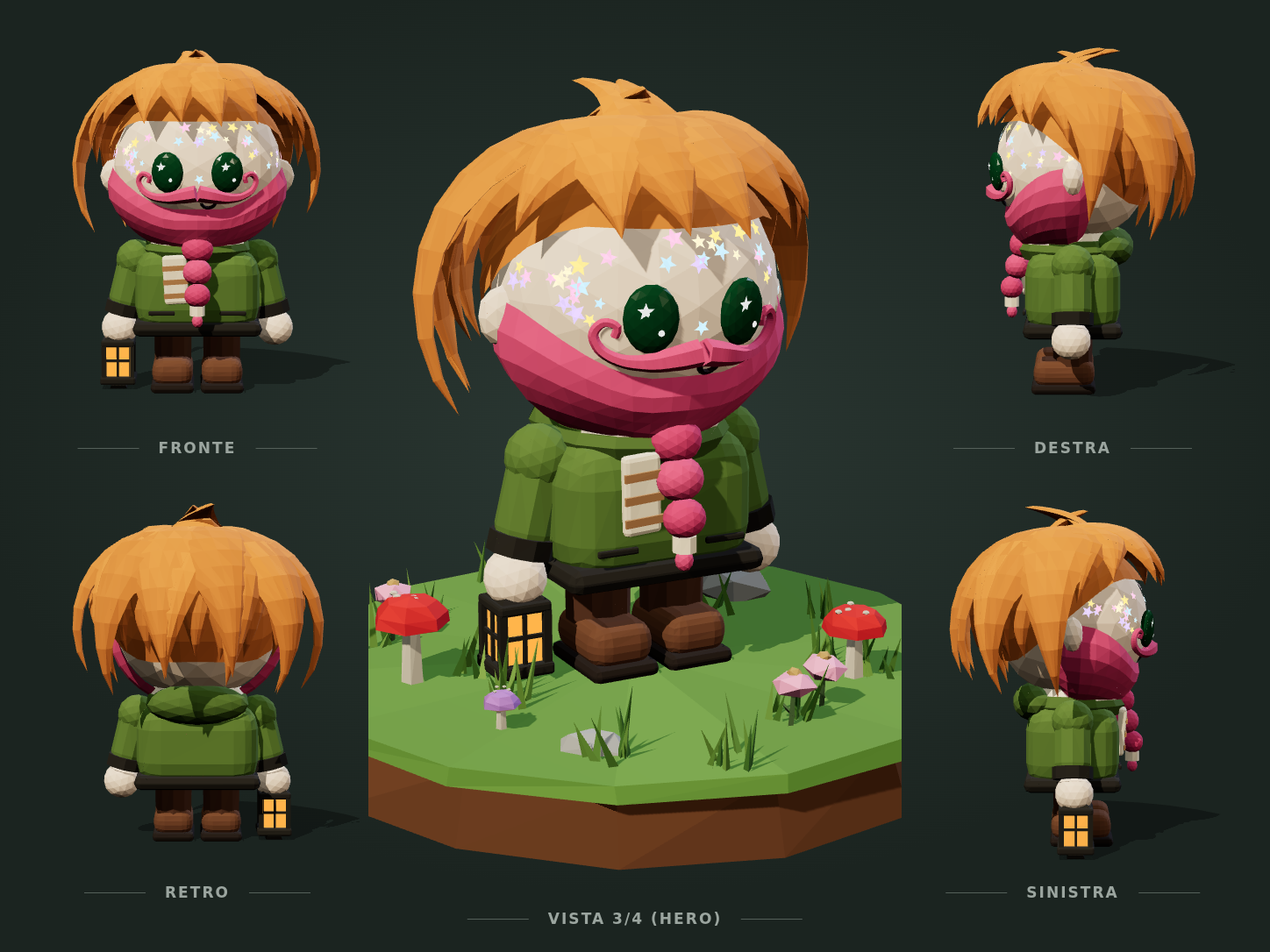
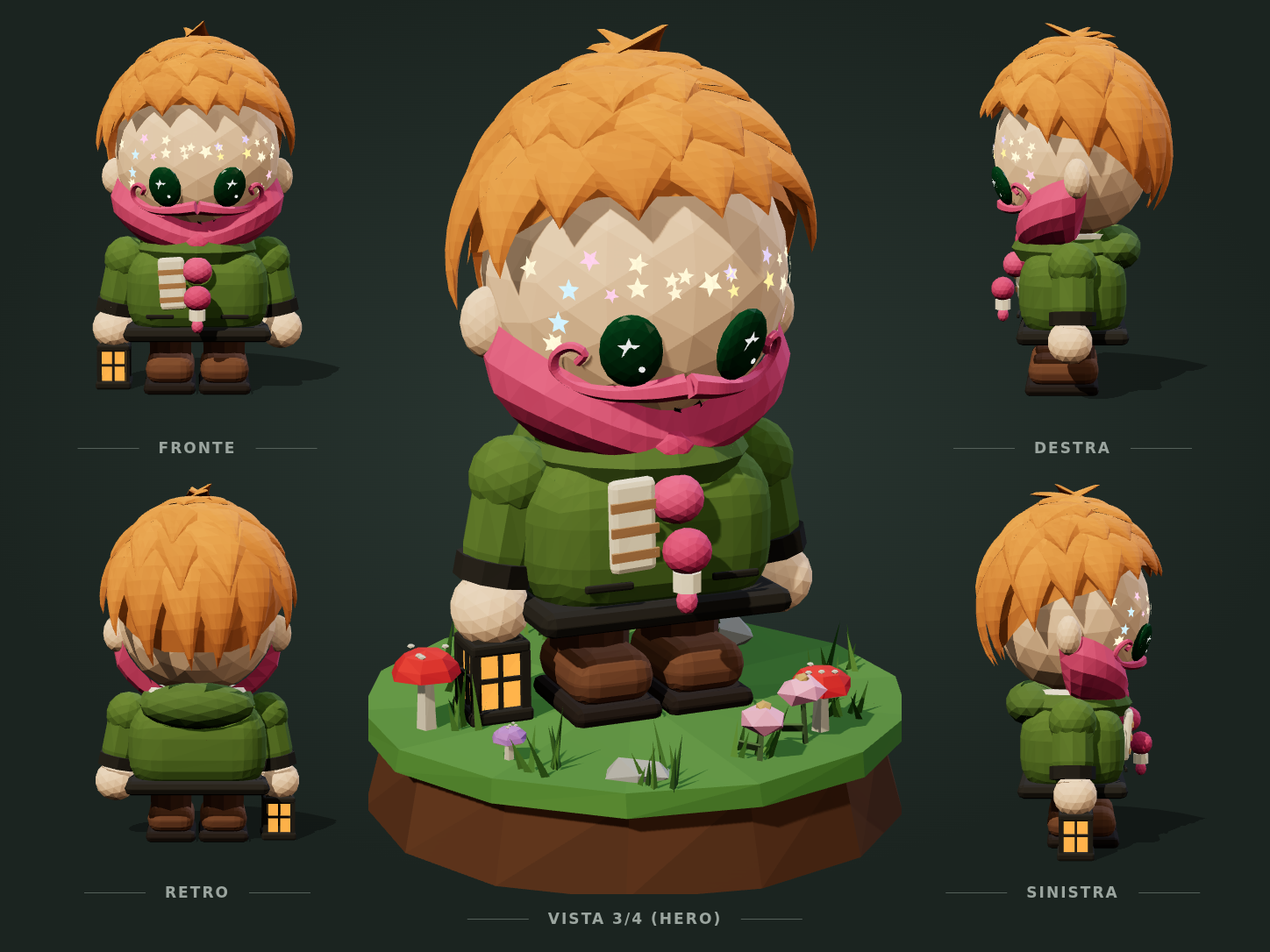
Style prototype v2, second pass: proportions and features taken from the concept
Head and hair now ~60% of the height with a short chubby body sitting under
the head; eyes, moustache and mouth in the lower half of the face; hair as a
round mass of short pointed overlapping locks; beard as a band along the jaw
from ear to ear; wider handlebar, bigger sparser stars, big round ears, big
hands, chunky boots; smaller darker diorama. Audit updated.

Claude-Session: https://claude.ai/code/session_01U6u5RojYrwYjZd8sSRU7em

diff --git a/Prototype-3d/src/proto/custodeV2.ts b/Prototype-3d/src/proto/custodeV2.ts
@@ -13,11 +13,11 @@ import { flower, grassTuft } from '../render/lowpoly/details.ts';
 import { mushroom } from '../render/lowpoly/nature.ts';
 
 // ── Palette del concept ─────────────────────────────────────────────────
-const SKIN = '#f3dcc4';
+const SKIN = '#f6cba6';
 const HAIR = '#d98238';
 const BEARD = '#d4567c';
 const EYE = '#1f4d2e';
-const JACKET = '#5d7836';
+const JACKET = '#58722f';
 const DARK = '#2c2a25';
 const PANTS = '#5a3c2a';
 const BOOT = '#6c4830';
@@ -36,8 +36,9 @@ function prng(seed: number) {
 const O: LPOpts = { jitter: 0, vary: 0.04, ao: 0 };
 
 // ── Testa: ellissoide (tonda, appena più larga che alta) ────────────────
-const C = new THREE.Vector3(0, 0.745, 0);
-const R = new THREE.Vector3(0.28, 0.258, 0.258);
+// testa enorme (≈60% dell'altezza con i capelli), appena più alta che larga
+const C = new THREE.Vector3(0, 0.79, 0);
+const R = new THREE.Vector3(0.275, 0.29, 0.265);
 
 /** Punto e normale della testa nella direzione (θ da +z verso +x, φ elevazione). */
 function headAt(th: number, ph: number) {
@@ -97,11 +98,11 @@ function sheet(lp: LP, nu: number, nv: number, at: (u: number, v: number) => [nu
  * segue la testa dalla radice alla punta, si allarga e poi si stringe a punta,
  * e si stacca dalla testa verso la punta (volume che esce dalla sagoma).
  */
-function lock(lp: LP, o: { th0: number; th1: number; ph0: number; ph1: number; w: number; t?: number; lift?: number; bulge?: number; col: string }) {
+function lock(lp: LP, o: { th0: number; th1: number; ph0: number; ph1: number; w: number; t?: number; lift?: number; bulge?: number; base?: number; col: string }) {
   const NS = 10, NW = 6;
   const center = (s: number) => {
     const { p, n } = headAt(lerp(o.th0, o.th1, s) * DEG, lerp(o.ph0, o.ph1, s) * DEG);
-    const off = 0.022 + (o.bulge ?? 0.04) * Math.sin(Math.PI * s) + (o.lift ?? 0.06) * s * s;
+    const off = (o.base ?? 0.022) + (o.bulge ?? 0.04) * Math.sin(Math.PI * s) + (o.lift ?? 0.06) * s * s;
     return { c: p.addScaledVector(n, off), n };
   };
   const outer: THREE.Vector3[][] = [], inner: THREE.Vector3[][] = [];
@@ -170,60 +171,65 @@ function star(size: number, inner = 0.45): THREE.BufferGeometry {
 const rbox = (w: number, h: number, d: number, r: number, seg = 2) => new RoundedBoxGeometry(w, h, d, seg, r);
 
 // ── Parti ───────────────────────────────────────────────────────────────
+// Misure ricavate dalla vista frontale del concept: occhi, baffi e bocca nella
+// metà bassa della testa (fronte grande), barba come fascia lungo la mandibola.
 
-/** Linea dell'attaccatura dei capelli (φ in gradi) attorno alla testa. */
-const hairline = (th: number) => lerp(30, -26, smooth(0.25 * Math.PI, 0.8 * Math.PI, Math.abs(Math.atan2(Math.sin(th), Math.cos(th)))));
-/** Bordo superiore della barba (φ in gradi) in funzione di θ. */
-const beardTop = (thDeg: number) => lerp(-31, -1, smooth(18, 86, Math.abs(thDeg)));
+const EYE_Y = 0.682, EYE_X = 0.1;
+const absDeg = (th: number) => Math.abs(Math.atan2(Math.sin(th), Math.cos(th))) / DEG; // 0 davanti, 180 dietro
+/** Dove arrivano le punte dei capelli (φ in gradi): poco sopra gli occhi davanti, sopra le orecchie ai lati, alla nuca dietro. */
+const hairTip = (th: number) => { const a = absDeg(th); return a < 90 ? lerp(24, 2, smooth(30, 90, a)) : lerp(2, -34, smooth(90, 160, a)); };
+/** Bordo superiore della barba (φ in gradi): sotto la bocca davanti, sale lungo la mandibola fino all'orecchio. */
+const beardTop = (thDeg: number) => lerp(-53, -16, smooth(0, 96, Math.abs(thDeg)));
 
 function head(lp: LP) {
-  lp.add(new THREE.IcosahedronGeometry(1, 3).scale(R.x, R.y, R.z).translate(C.x, C.y, C.z), SKIN, { ...O, ao: 0.06 });
-  for (const s of [-1, 1]) lp.blob(s * (R.x - 0.005), C.y - 0.035, 0, 0.05, 0.058, 0.035, SKIN, { ...O, detail: 1 } as LPOpts); // orecchie
+  lp.add(new THREE.IcosahedronGeometry(1, 3).scale(R.x, R.y, R.z).translate(C.x, C.y, C.z), SKIN, { ...O, ao: 0.05 });
+  for (const s of [-1, 1]) lp.blob(s * (R.x - 0.004), 0.708, -0.012, 0.05, 0.064, 0.04, SKIN, { ...O, detail: 2 } as LPOpts); // orecchie grandi e tonde
   // bocca: sorrisetto un po' di lato, sotto i baffi
-  onSkin(lp, headFront(0.035, 0.636), 0.002, 0.15, (q) => q.add(new THREE.TorusGeometry(0.022, 0.0065, 3, 8, Math.PI).rotateZ(Math.PI), '#2a1a1c', O));
+  onSkin(lp, headFront(0.03, 0.575), 0.002, 0.15, (q) => q.add(new THREE.TorusGeometry(0.024, 0.007, 3, 8, Math.PI).rotateZ(Math.PI), '#2a1a1c', O));
 }
 
-/** Brillantini a stella sparsi sulla pelle (non su occhi, barba, baffi, capelli). */
+/** Brillantini a stella, grandi e radi, su tutto il viso (non su occhi, baffi, barba, capelli). */
 function glitter(lp: LP) {
-  const rnd = prng(5);
+  const rnd = prng(9);
   let placed = 0;
-  for (let tries = 0; placed < 40 && tries < 2000; tries++) {
-    const thD = (rnd() * 2 - 1) * 100, phD = -24 + rnd() * 62;
-    if (phD < beardTop(thD) + 5 || phD > hairline(thD * DEG) - 2) continue;
+  for (let tries = 0; placed < 26 && tries < 4000; tries++) {
+    const thD = (rnd() * 2 - 1) * 88, phD = -45 + rnd() * 55;
+    if (phD < beardTop(thD) + 6 || phD > hairTip(thD * DEG) - 4) continue;
     const at = headAt(thD * DEG, phD * DEG);
     const { p } = at;
-    if (p.z > 0.1 && Math.abs(Math.abs(p.x) - 0.092) < 0.078 && Math.abs(p.y - 0.727) < 0.09) continue; // occhi
-    if (p.z > 0.1 && Math.abs(p.x) < 0.2 && p.y < 0.69) continue; // baffi
-    onSkin(lp, at, 0.002, rnd() * Math.PI, (q) => q.add(star(0.011 + rnd() * 0.011), GLITTER[placed % GLITTER.length], { ...O, bucket: 'glow' }));
+    if (p.z > 0.08 && Math.abs(Math.abs(p.x) - EYE_X) < 0.078 && Math.abs(p.y - EYE_Y) < 0.09) continue; // occhi
+    if (p.z > 0.08 && Math.abs(p.x) < 0.23 && p.y > 0.56 && p.y < 0.67) continue; // baffi e bocca
+    onSkin(lp, at, 0.002, rnd() * Math.PI, (q) => q.add(star(0.013 + rnd() * 0.011), GLITTER[placed % 3 === 0 ? 1 + (placed % 4) : 0], { ...O, bucket: 'glow' }));
     placed++;
   }
 }
 
 function beard(lp: LP) {
-  sheet(lp, 22, 8,
-    (u, v) => [u * 104 * DEG, lerp(-76, beardTop(u * 104), v) * DEG],
+  // fascia lungo la mandibola, da un orecchio all'altro, più piena sotto il mento
+  sheet(lp, 24, 7,
+    (u, v) => [u * 100 * DEG, lerp(-82, beardTop(u * 100), v) * DEG],
     (u, v) => {
-      const edge = smooth(0, 0.14, 1 - Math.abs(u)) * smooth(0, 0.18, v) * smooth(0, 0.2, 1 - v);
-      const chin = (1 - Math.abs(u)) ** 2 * Math.exp(-(((v - 0.35) / 0.25) ** 2));
-      return edge * (0.034 + 0.026 * chin);
+      const edge = smooth(0, 0.12, 1 - Math.abs(u)) * smooth(0, 0.16, v) * smooth(0, 0.22, 1 - v);
+      const chin = (1 - Math.abs(u)) ** 2 * Math.exp(-(((v - 0.35) / 0.3) ** 2));
+      return edge * (0.06 + 0.035 * chin);
     }, BEARD, { vary: 0.05 });
   // treccia: tre perle che scendono sul petto, fermaglio color panna e punta
-  const { p, n } = headAt(0, -58 * DEG);
-  const top = p.addScaledVector(n, 0.055);
-  const end = new THREE.Vector3(0, 0.335, 0.205);
-  [0.052, 0.047, 0.042].forEach((r, i) => {
+  const { p, n } = headAt(0, -64 * DEG);
+  const top = p.addScaledVector(n, 0.045);
+  const end = new THREE.Vector3(0, 0.33, 0.235);
+  [0.052, 0.048, 0.044].forEach((r, i) => {
     const q = top.clone().lerp(end, i / 2);
     lp.blob(q.x, q.y, q.z, r, r * 0.92, r * 0.9, i % 2 ? BEARD : '#c94b71', { ...O, detail: 2 } as LPOpts);
   });
-  lp.cyl(end.x, end.y - 0.065, end.z, 0.024, 0.024, 0.032, 8, SCARF, O);
-  lp.blob(end.x, end.y - 0.082, end.z, 0.018, 0.022, 0.018, BEARD, { ...O, detail: 1 } as LPOpts);
+  lp.cyl(end.x, end.y - 0.07, end.z, 0.026, 0.026, 0.034, 8, SCARF, O);
+  lp.blob(end.x, end.y - 0.088, end.z, 0.019, 0.024, 0.019, BEARD, { ...O, detail: 1 } as LPOpts);
 }
 
 function moustache(lp: LP) {
-  // dal centro sotto il naso verso l'esterno, poi un ricciolo all'insù accanto all'occhio
+  // grosso manubrio: dal centro sotto il naso fin oltre gli occhi, poi un ricciolo all'insù
   const path: Array<[number, number, number]> = [
-    [0.004, 0.668, 0.026], [0.045, 0.66, 0.024], [0.09, 0.652, 0.02], [0.135, 0.655, 0.015], [0.168, 0.674, 0.012],
-    [0.18, 0.702, 0.0105], [0.166, 0.722, 0.0095], [0.146, 0.714, 0.0088], [0.149, 0.696, 0.008],
+    [0.004, 0.626, 0.022], [0.06, 0.617, 0.02], [0.12, 0.612, 0.016], [0.168, 0.622, 0.013], [0.196, 0.646, 0.011],
+    [0.2, 0.674, 0.0095], [0.182, 0.689, 0.0088], [0.165, 0.677, 0.008], [0.172, 0.660, 0.0075],
   ];
   for (const s of [-1, 1]) {
     const pts = path.map(([x, y, r]) => { const at = headFront(s * x, y); return at.p.addScaledVector(at.n, r * 0.85); });
@@ -231,76 +237,76 @@ function moustache(lp: LP) {
   }
 }
 
+/**
+ * Capelli: massa tonda e compatta fatta di tante ciocche corte a punta,
+ * sovrapposte a scaglie (ogni fila copre la radice di quella sotto), più
+ * qualche ciuffetto dritto in cima.
+ */
 function hair(lp: LP) {
   const rnd = prng(31);
   const tone = (k: number) => `#${new THREE.Color(HAIR).offsetHSL(0, 0, k).getHexString()}`;
-  // calotta sotto le ciocche (più scura): niente pelle tra una ciocca e l'altra
-  sheet(lp, 30, 8, (u, v) => { const th = Math.PI + u * Math.PI; return [th, lerp(hairline(th), 89, v) * DEG]; }, () => 0.018, tone(-0.06));
-  // strato interno sulla nuca (riempie tra le ciocche esterne)
-  for (let k = 0; k < 9; k++) {
-    const th0 = 116 + k * 16;
-    lock(lp, { th0, th1: th0 + (rnd() - 0.5) * 8, ph0: 64, ph1: -16 - rnd() * 6, w: 0.17, t: 0.04, lift: 0.04, col: tone(-0.06) });
-  }
-  // ciocche esterne della nuca: grosse, a punta, che si aprono verso il basso
-  for (let k = 0; k < 10; k++) {
-    const th0 = 106 + k * (148 / 9);
-    lock(lp, { th0, th1: th0 + (k % 2 ? 9 : -9), ph0: 76, ph1: -22 - rnd() * 12, w: 0.2, lift: 0.1 + rnd() * 0.04, bulge: 0.05, col: tone([0, 0.045, -0.035][k % 3]) });
-  }
-  // lati, sopra le orecchie
-  for (const s of [-1, 1]) [[58, 22], [78, 14], [96, 2]].forEach(([th, ph1], k) => {
-    lock(lp, { th0: s * th, th1: s * (th + 10), ph0: 74, ph1: ph1 - rnd() * 5, w: 0.17, lift: 0.06, col: tone([0.02, -0.02, 0.01][k]) });
+  sheet(lp, 30, 8, (u, v) => { const th = Math.PI + u * Math.PI; return [th, lerp(hairTip(th) + 6, 89, v) * DEG]; }, () => 0.02, tone(-0.07));
+  const back = (th: number) => smooth(80, 160, absDeg(th * DEG));
+  const rows = [
+    { n: 15, root: 50, tip: (th: number) => hairTip(th * DEG), base: 0.022, w: 0.15, t: 0.036 },
+    { n: 12, root: 66, tip: (th: number) => lerp(40, 8, back(th)), base: 0.032, w: 0.16, t: 0.036 },
+    { n: 9, root: 80, tip: (th: number) => lerp(56, 36, back(th)), base: 0.042, w: 0.17, t: 0.036 },
+    { n: 6, root: 89, tip: () => 70, base: 0.05, w: 0.16, t: 0.034 },
+  ];
+  rows.forEach((row, r) => {
+    for (let k = 0; k < row.n; k++) {
+      const th0 = (k + (r % 2) * 0.5) * (360 / row.n) + (rnd() - 0.5) * 8;
+      lock(lp, {
+        th0, th1: th0 + 6 + (rnd() - 0.5) * 10, ph0: row.root, ph1: row.tip(th0) - rnd() * 5,
+        w: row.w * (0.9 + rnd() * 0.2), t: row.t, base: row.base, lift: 0.02 + rnd() * 0.02, bulge: 0.012,
+        col: tone([0.02, -0.02, 0.035, 0, -0.035][(k + r) % 5]),
+      });
+    }
   });
-  // frangia spettinata a ciocche grosse, appena portata di lato
-  for (let k = 0; k < 5; k++) {
-    const th0 = -46 + k * 23;
-    lock(lp, { th0, th1: th0 + 14, ph0: 84, ph1: 20 + rnd() * 10, w: 0.21, t: 0.045, lift: 0.06, bulge: 0.045, col: tone([0.04, -0.01, 0.025, -0.03, 0.02][k]) });
-  }
-  // ciuffi ribelli in cima
-  [[-14, 106, 0.12], [14, 114, 0.14], [168, 98, 0.1]].forEach(([th, ph1, lift], k) => {
-    lock(lp, { th0: th, th1: th + 6, ph0: 74, ph1, w: 0.13, t: 0.04, lift, bulge: 0.03, col: tone(k % 2 ? 0.04 : 0.01) });
+  // ciuffetti dritti in cima
+  [[-20, 104], [10, 110], [35, 100], [190, 102]].forEach(([th, ph1], k) => {
+    lock(lp, { th0: th, th1: th + 4, ph0: 82, ph1, w: 0.085, t: 0.032, base: 0.055, lift: 0.06 + k * 0.01, bulge: 0.01, col: tone(k % 2 ? 0.04 : 0.015) });
   });
 }
 
 function body(lp: LP) {
-  // giacca morbida con cappuccio, cintura scura, tasche
-  lp.add(rbox(0.41, 0.28, 0.31, 0.085).translate(0, 0.335, 0), JACKET, { ...O, ao: 0.12 });
-  lp.add(rbox(0.42, 0.048, 0.32, 0.022, 1).translate(0, 0.215, 0), DARK, O);
-  for (const s of [-1, 1]) lp.add(rbox(0.085, 0.014, 0.01, 0.004, 1).translate(s * 0.115, 0.27, 0.157), DARK, O);
-  lp.blob(0, 0.475, -0.12, 0.17, 0.07, 0.085, '#536c30', { ...O, detail: 2 } as LPOpts); // cappuccio
-  lp.add(new THREE.TorusGeometry(0.145, 0.04, 6, 14).rotateX(Math.PI / 2).translate(0, 0.468, 0), '#566f32', O); // colletto
+  // giacca morbida e paffuta con cappuccio, cintura scura, tasche
+  lp.add(rbox(0.47, 0.31, 0.35, 0.12, 3).translate(0, 0.33, 0), JACKET, { ...O, ao: 0.14 });
+  lp.add(rbox(0.48, 0.046, 0.36, 0.022, 1).translate(0, 0.2, 0), DARK, O);
+  for (const s of [-1, 1]) lp.add(rbox(0.09, 0.014, 0.01, 0.004, 1).translate(s * 0.12, 0.262, 0.176), DARK, O);
+  lp.blob(0, 0.47, -0.13, 0.19, 0.08, 0.1, '#536c30', { ...O, detail: 2 } as LPOpts); // cappuccio
+  lp.add(new THREE.TorusGeometry(0.16, 0.046, 6, 16).rotateX(Math.PI / 2).translate(0, 0.47, 0), '#566f32', O); // colletto
   // sciarpa color panna a righe
-  lp.add(new THREE.TorusGeometry(0.128, 0.042, 6, 14).rotateX(Math.PI / 2).translate(0, 0.49, 0.005), SCARF, O);
-  lp.push([-0.075, 0.46, 0.17], 0, 0.08, 0.06);
-  lp.add(rbox(0.078, 0.16, 0.026, 0.01, 1).translate(0, -0.08, 0), SCARF, O);
-  for (const y of [-0.04, -0.085, -0.13]) lp.add(new THREE.BoxGeometry(0.08, 0.016, 0.006).translate(0, y, 0.014), SCARF_STRIPE, O);
+  lp.add(new THREE.TorusGeometry(0.14, 0.045, 6, 16).rotateX(Math.PI / 2).translate(0, 0.485, 0.005), SCARF, O);
+  lp.push([-0.085, 0.455, 0.19], 0, 0.1, 0.06);
+  lp.add(rbox(0.085, 0.17, 0.028, 0.012, 1).translate(0, -0.085, 0), SCARF, O);
+  for (const y of [-0.045, -0.09, -0.135]) lp.add(new THREE.BoxGeometry(0.087, 0.017, 0.006).translate(0, y, 0.015), SCARF_STRIPE, O);
   lp.pop();
-  // gambe corte e stivali con suola scura
+  // gambe cortissime e stivaloni con suola spessa
   for (const s of [-1, 1]) {
-    lp.cyl(s * 0.082, 0.07, 0, 0.064, 0.066, 0.15, 10, PANTS, { ...O, ao: 0.1 });
-    lp.add(rbox(0.135, 0.09, 0.2, 0.038).translate(s * 0.082, 0.065, 0.028), BOOT, O);
-    lp.add(rbox(0.142, 0.032, 0.21, 0.014, 1).translate(s * 0.082, 0.016, 0.03), SOLE, O);
+    lp.cyl(s * 0.09, 0.075, 0, 0.072, 0.074, 0.12, 10, PANTS, { ...O, ao: 0.1 });
+    lp.add(rbox(0.16, 0.095, 0.23, 0.045).translate(s * 0.09, 0.075, 0.03), BOOT, O);
+    lp.add(rbox(0.17, 0.036, 0.24, 0.016, 1).translate(s * 0.09, 0.018, 0.035), SOLE, O);
   }
 }
 
 function arm(lp: LP, s: number) {
-  lp.push([s * 0.205, 0.43, 0], 0, 0, s * 0.24);
-  lp.blob(0, 0, 0, 0.068, 0.068, 0.068, JACKET, { ...O, detail: 2 } as LPOpts);
-  lp.add(new THREE.CapsuleGeometry(0.06, 0.11, 4, 10).translate(0, -0.085, 0), JACKET, { ...O, ao: 0.08 });
-  lp.cyl(0, -0.19, 0, 0.066, 0.066, 0.04, 10, DARK, O); // polsino
-  lp.blob(0, -0.235, 0.005, 0.062, 0.062, 0.062, SKIN, { ...O, detail: 2 } as LPOpts); // manina
+  lp.push([s * 0.235, 0.43, 0], 0, 0, s * 0.2);
+  lp.blob(0, 0, 0, 0.078, 0.078, 0.078, JACKET, { ...O, detail: 2 } as LPOpts);
+  lp.add(new THREE.CapsuleGeometry(0.068, 0.1, 4, 10).translate(0, -0.08, 0), JACKET, { ...O, ao: 0.08 });
+  lp.cyl(0, -0.185, 0, 0.074, 0.074, 0.042, 10, DARK, O); // polsino
+  lp.blob(0, -0.235, 0.008, 0.072, 0.07, 0.07, SKIN, { ...O, detail: 2 } as LPOpts); // manona
   lp.pop();
 }
 
-/** Lanterna appesa alla manina (al posto della borsa del concept). */
+/** Lanterna appesa alla manona (al posto della borsa del concept). */
 function lantern(lp: LP, x: number) {
-  const y = 0.215, z = 0.01;
+  const y = 0.2, z = 0.01;
   lp.add(new THREE.TorusGeometry(0.036, 0.008, 4, 12, Math.PI).translate(x, y - 0.035, z), DARK, O); // manico ad arco
   const by = y - 0.125; // centro del vetro
   lp.add(new THREE.ConeGeometry(0.075, 0.05, 4).rotateY(Math.PI / 4).translate(x, by + 0.09, z), DARK, O); // tettuccio
   lp.add(rbox(0.11, 0.022, 0.11, 0.006, 1).translate(x, by + 0.062, z), DARK, O);
   lp.add(rbox(0.118, 0.026, 0.118, 0.007, 1).translate(x, by - 0.062, z), DARK, O);
-  lp.add(new THREE.CylinderGeometry(0.03, 0.04, 0.02, 4).rotateY(Math.PI / 4).translate(x, by - 0.083, z), DARK, O); // piedino
-  // telaio: montanti agli spigoli e una croce su ogni faccia
   for (const [dx, dz] of [[-1, -1], [1, -1], [-1, 1], [1, 1]]) lp.add(new THREE.BoxGeometry(0.016, 0.11, 0.016).translate(x + dx * 0.046, by, z + dz * 0.046), DARK, O);
   for (const a of [0, Math.PI / 2, Math.PI, -Math.PI / 2]) {
     lp.push([x, by, z], a);
@@ -309,23 +315,23 @@ function lantern(lp: LP, x: number) {
     lp.pop();
   }
   lp.add(new THREE.BoxGeometry(0.084, 0.1, 0.084).translate(x, by, z), '#ffb24a', { ...O, bucket: 'glow' }); // vetro acceso
-  lp.blob(x, by - 0.01, z, 0.016, 0.024, 0.016, '#fff1c4', { ...O, bucket: 'glow' }); // fiammella
+  lp.blob(x, by - 0.01, z, 0.016, 0.024, 0.016, '#fff1c4', { ...O, bucket: 'glow' });
   lp.light(x, by, z, '#ffb24a', 0.8, 1.6, 0.1, 0.6);
 }
 
-/** Zolla del concept: terra spessa, prato, funghi a pois, fiorellini, sasso. */
+/** Zolla del concept: piccola, terra spessa, prato scuro, funghi a pois, fiorellini, sasso. */
 function diorama(lp: LP) {
   const r = lp.rng;
-  lp.cyl(0, -0.15, 0, 0.66, 0.62, 0.13, 14, '#6a4528', { jitter: 0.012, vary: 0.08, ao: 0.25 });
-  lp.cyl(0, -0.03, 0, 0.675, 0.67, 0.035, 14, '#5f8a3a', { jitter: 0.008, vary: 0.08, ao: 0 });
+  lp.cyl(0, -0.18, 0, 0.5, 0.46, 0.15, 14, '#5e3d24', { jitter: 0.012, vary: 0.08, ao: 0.25 });
+  lp.cyl(0, -0.035, 0, 0.51, 0.505, 0.04, 14, '#4e7b34', { jitter: 0.008, vary: 0.08, ao: 0 });
   const ring = (a: number, d0: number, d1: number): [number, number] => { const d = r.range(d0, d1); return [Math.cos(a) * d, Math.sin(a) * d]; };
-  for (let i = 0; i < 14; i++) { const [x, z] = ring((i / 14) * Math.PI * 2 + r.range(-0.2, 0.2), 0.3, 0.6); grassTuft(lp, x, z, 0.65 + r.next() * 0.35, ['#5f8a3a', '#6f9a44', '#4f7a33', '#7aa64a']); }
-  mushroom(lp, -0.42, 0.18, 0.13, '#c9332e', false, 0.075);
-  mushroom(lp, 0.43, 0.12, 0.11, '#c9332e', false, 0.065);
-  mushroom(lp, -0.22, 0.42, 0.06, '#a77bc4', false, 0.035);
-  for (const [x, z] of [[0.3, 0.38], [0.36, 0.28], [-0.5, -0.05]]) flower(lp, x, z, '#ec9fbf', 0.06 + r.next() * 0.04);
-  lp.blob(0.2, 0.02, -0.4, 0.09, 0.05, 0.07, '#8d8f8c', { jitter: 0.01, vary: 0.1, ao: 0 });
-  lp.blob(-0.05, 0.005, 0.5, 0.07, 0.03, 0.05, '#9a9c98', { jitter: 0.01, vary: 0.1, ao: 0 });
+  for (let i = 0; i < 12; i++) { const [x, z] = ring((i / 12) * Math.PI * 2 + r.range(-0.2, 0.2), 0.3, 0.46); grassTuft(lp, x, z, 0.55 + r.next() * 0.3, ['#4e7b34', '#5d8c3c', '#436b2d', '#6a9a45']); }
+  mushroom(lp, -0.36, 0.2, 0.11, '#c9332e', false, 0.062);
+  mushroom(lp, 0.33, 0.2, 0.09, '#c9332e', false, 0.055);
+  mushroom(lp, -0.2, 0.36, 0.05, '#a77bc4', false, 0.03);
+  for (const [x, z] of [[0.22, 0.35], [0.3, 0.27]]) flower(lp, x, z, '#ec9fbf', 0.05 + r.next() * 0.03);
+  lp.blob(0.16, 0.02, -0.33, 0.075, 0.045, 0.06, '#8d8f8c', { jitter: 0.01, vary: 0.1, ao: 0 });
+  lp.blob(0.02, 0.005, 0.42, 0.06, 0.028, 0.045, '#9a9c98', { jitter: 0.01, vary: 0.1, ao: 0 });
 }
 
 function model(build: (lp: LP) => void, name: string): CachedModel {
@@ -341,15 +347,15 @@ function eyes(): THREE.Group {
   const mat = new THREE.MeshStandardMaterial({ color: EYE, roughness: 0.18, metalness: 0.05, flatShading: true });
   const shine = new THREE.MeshBasicMaterial({ color: '#ffffff' });
   for (const s of [-1, 1]) {
-    const { p, n } = headFront(s * 0.092, 0.727);
+    const { p, n } = headFront(s * EYE_X, EYE_Y);
     const e = new THREE.Group();
     e.position.copy(p.addScaledVector(n, 0.004));
     e.rotation.set(-Math.asin(n.y), Math.atan2(n.x, n.z), 0, 'YXZ');
-    const ball = new THREE.Mesh(new THREE.IcosahedronGeometry(1, 2).scale(0.052, 0.064, 0.022), mat);
+    const ball = new THREE.Mesh(new THREE.IcosahedronGeometry(1, 2).scale(0.054, 0.068, 0.022), mat);
     ball.castShadow = true;
     e.add(ball);
-    const st = new THREE.Mesh(star(0.017, 0.42), shine); st.position.set(-0.013, 0.018, 0.021); e.add(st);
-    const dot = new THREE.Mesh(new THREE.CircleGeometry(0.0065, 8), shine); dot.position.set(0.016, -0.022, 0.02); e.add(dot);
+    const st = new THREE.Mesh(star(0.02, 0.42), shine); st.position.set(-0.004, 0.016, 0.021); e.add(st);
+    const dot = new THREE.Mesh(new THREE.CircleGeometry(0.006, 8), shine); dot.position.set(0.018, -0.024, 0.02); e.add(dot);
     g.add(e);
   }
   return g;
@@ -360,7 +366,7 @@ export interface CustodeV2 { root: THREE.Group; diorama: THREE.Group; lights: Ar
 export function buildCustodeV2(): CustodeV2 {
   const char = model((lp) => {
     head(lp); glitter(lp); beard(lp); moustache(lp); hair(lp); body(lp); arm(lp, -1); arm(lp, 1);
-    lantern(lp, -0.265);
+    lantern(lp, -0.28);
   }, 'proto:custode-v2');
   const root = new THREE.Group();
   root.add(instantiate(char, { castShadow: true }));

diff --git a/Prototype-3d/src/proto/turnaround.ts b/Prototype-3d/src/proto/turnaround.ts
@@ -63,7 +63,7 @@ scene.add(diorama);
 const lanternLights = (attuale ? [] : lights).map((l) => { const pl = new THREE.PointLight(l.color, 0.5, 1.2, 2); pl.position.set(...l.pos); root.add(pl); return pl; });
 
 // ombra a terra per le viste senza zolla
-const floor = new THREE.Mesh(new THREE.CircleGeometry(0.7, 32).rotateX(-Math.PI / 2), new THREE.ShadowMaterial({ opacity: 0.32 }));
+const floor = new THREE.Mesh(new THREE.CircleGeometry(0.6, 32).rotateX(-Math.PI / 2), new THREE.ShadowMaterial({ opacity: 0.32 }));
 floor.receiveShadow = true;
 scene.add(floor);
 
@@ -73,7 +73,7 @@ const panels: Panel[] = [
   { x: 40, y: 545, w: 370, h: 460, yaw: Math.PI },           // retro
   { x: 1038, y: 20, w: 370, h: 470, yaw: -Math.PI / 2 },     // destra (lato destro del personaggio)
   { x: 1038, y: 545, w: 370, h: 460, yaw: Math.PI / 2 },     // sinistra
-  { x: 420, y: 10, w: 608, h: 1010, yaw: 0.52, hero: true }, // 3/4 sulla zolla
+  { x: 420, y: 10, w: 608, h: 1010, yaw: 0.42, hero: true }, // 3/4 sulla zolla
 ];
 
 const camera = new THREE.PerspectiveCamera(22, 1, 0.1, 50);
@@ -85,8 +85,8 @@ for (const p of panels) {
   camera.aspect = p.w / p.h;
   if (p.hero) {
     camera.fov = 26;
-    camera.position.set(0.18, 1.3, 3.65);
-    camera.lookAt(0, 0.42, 0);
+    camera.position.set(0.1, 1.15, 3.4);
+    camera.lookAt(0, 0.46, 0);
   } else {
     camera.fov = 22;
     camera.position.set(0, 0.8, 3.55);

diff --git a/Prototype-3d/docs/audit-stile-custode-v2.md b/Prototype-3d/docs/audit-stile-custode-v2.md
@@ -16,6 +16,21 @@ Ho costruito un **prototipo separato**, fuori dal gioco, per valutarne la fattib
 ![Prototipo v2](../screenshots/proto/custode-v2.png)
 ![Custode attuale, stessa tavola](../screenshots/proto/custode-attuale.png)
 
+## Seconda versione del prototipo
+
+La prima versione era troppo lontana dal concept. Ho rifatto il modello misurando la vista frontale del concept:
+- **Proporzioni:** testa e capelli occupano ~60% dell'altezza, il corpo è basso e paffuto con gambe cortissime, e la testa poggia sopra il colletto.
+- **Volto:** occhi, baffi e bocca stanno nella metà bassa della testa, con una fronte grande.
+- **Capelli:** massa tonda a scaglie di ciocche corte a punta, al posto delle ciocche lunghe e pendenti.
+- **Barba:** fascia lungo la mandibola, non più una maschera sul viso.
+- **Dettagli:** baffi più larghi, brillantini più grandi e radi, orecchie grandi e tonde, manone, stivaloni con suola spessa.
+- **Zolla:** più piccola e più scura.
+
+Restano differenze con il concept:
+- l'ombreggiatura morbida da render (il gioco usa facce piatte);
+- la pelle, un po' più spenta per via della luce del gioco;
+- la varietà delle ciocche, più regolare che nel disegno.
+
 ## Verdetto
 
 **Fattibile con la pipeline attuale.** Il prototipo usa lo stesso kit low-poly del gioco: `LP`, materiali a colori per vertice, bucket `glow`, `instantiate`. Usa le stesse primitive, più `RoundedBoxGeometry` di three (già nelle dipendenze). Non servono asset esterni, modellazione in un software 3D né nuove librerie.
@@ -27,10 +42,10 @@ Il lavoro vero è **rifare le opzioni di personalizzazione** nel nuovo stile, ci
 | Elemento | Oggi | Stile v2 (prototipo) | Impatto |
 |---|---|---|---|
 | Testa | box arrotondato | ellissoide più tondo e grande | Facile: anzi semplifica, perché la superficie è analitica e non serve la ricerca per bisezione. |
-| Capelli | veli aderenti e ciocche sottili | ciocche "a lente" chiuse e gonfie che escono dalla sagoma, a strati (nuca interna/esterna, lati, frangia, ciuffi) | Medio: 8 tagli da rifare. Con il cappello servono varianti "schiacciate". |
+| Capelli | veli aderenti e ciocche sottili | massa tonda e compatta di tante ciocche corte a punta sovrapposte a scaglie (4 file più ciuffetti in cima) | Medio: 8 tagli da rifare. Con il cappello servono varianti "schiacciate". |
 | Occhi | iride con riflessi bianchi | grande ovale lucido con riflesso a stella | Facile: un materiale lucido a parte (+1 draw call). |
 | Brillantini | stelline a 4 punte e scintille | stelle a 5 punte pastello più grandi | Facile: quasi già pronto. |
-| Barba e baffi | velo aderente, manubrio sottile | maschera fino alle orecchie, manubrio grosso con ricciolo | Facile: stessa tecnica, sulla nuova testa. |
+| Barba e baffi | velo aderente, manubrio sottile | fascia lungo la mandibola da orecchio a orecchio (la bocca resta libera), manubrio largo con il ricciolo accanto agli occhi | Facile: stessa tecnica, sulla nuova testa. |
 | Corpo e vestiti | busto squadrato, braccia sottili | giacca morbida con cappuccio e cintura, braccia a capsula, stivali tondi | Medio: 4 vestiti da rifare. |
 | Rig e animazioni | parti separate con perni | uguale, con perni da ricalibrare (testa più pesante, braccia corte) | Basso: verificare camminata, lavoro, preghiera, seduto. |
 
@@ -40,7 +55,7 @@ Il lavoro vero è **rifare le opzioni di personalizzazione** nel nuovo stile, ci
 |---|---|---|---|
 | Custode attuale, look base | 7.450 | 7 | — |
 | Custode attuale, look ricco (ricci lunghi, treccia, manubrio, monocolo, brillantini) | 17.370 | 9 | ~126 ms |
-| Prototipo v2 (completo, con lanterna) | 15.600 | 8 | ~38 ms |
+| Prototipo v2 (completo, con lanterna) | 19.100 | 8 | ~40 ms |
 
 Il v2 costa più o meno quanto un look ricco di oggi, ed è più veloce da generare perché la testa è un ellissoide. Diviso nelle parti del rig resterebbe a circa 8–10 draw call. Per il solo Custode non ci sono problemi di prestazioni.
 
